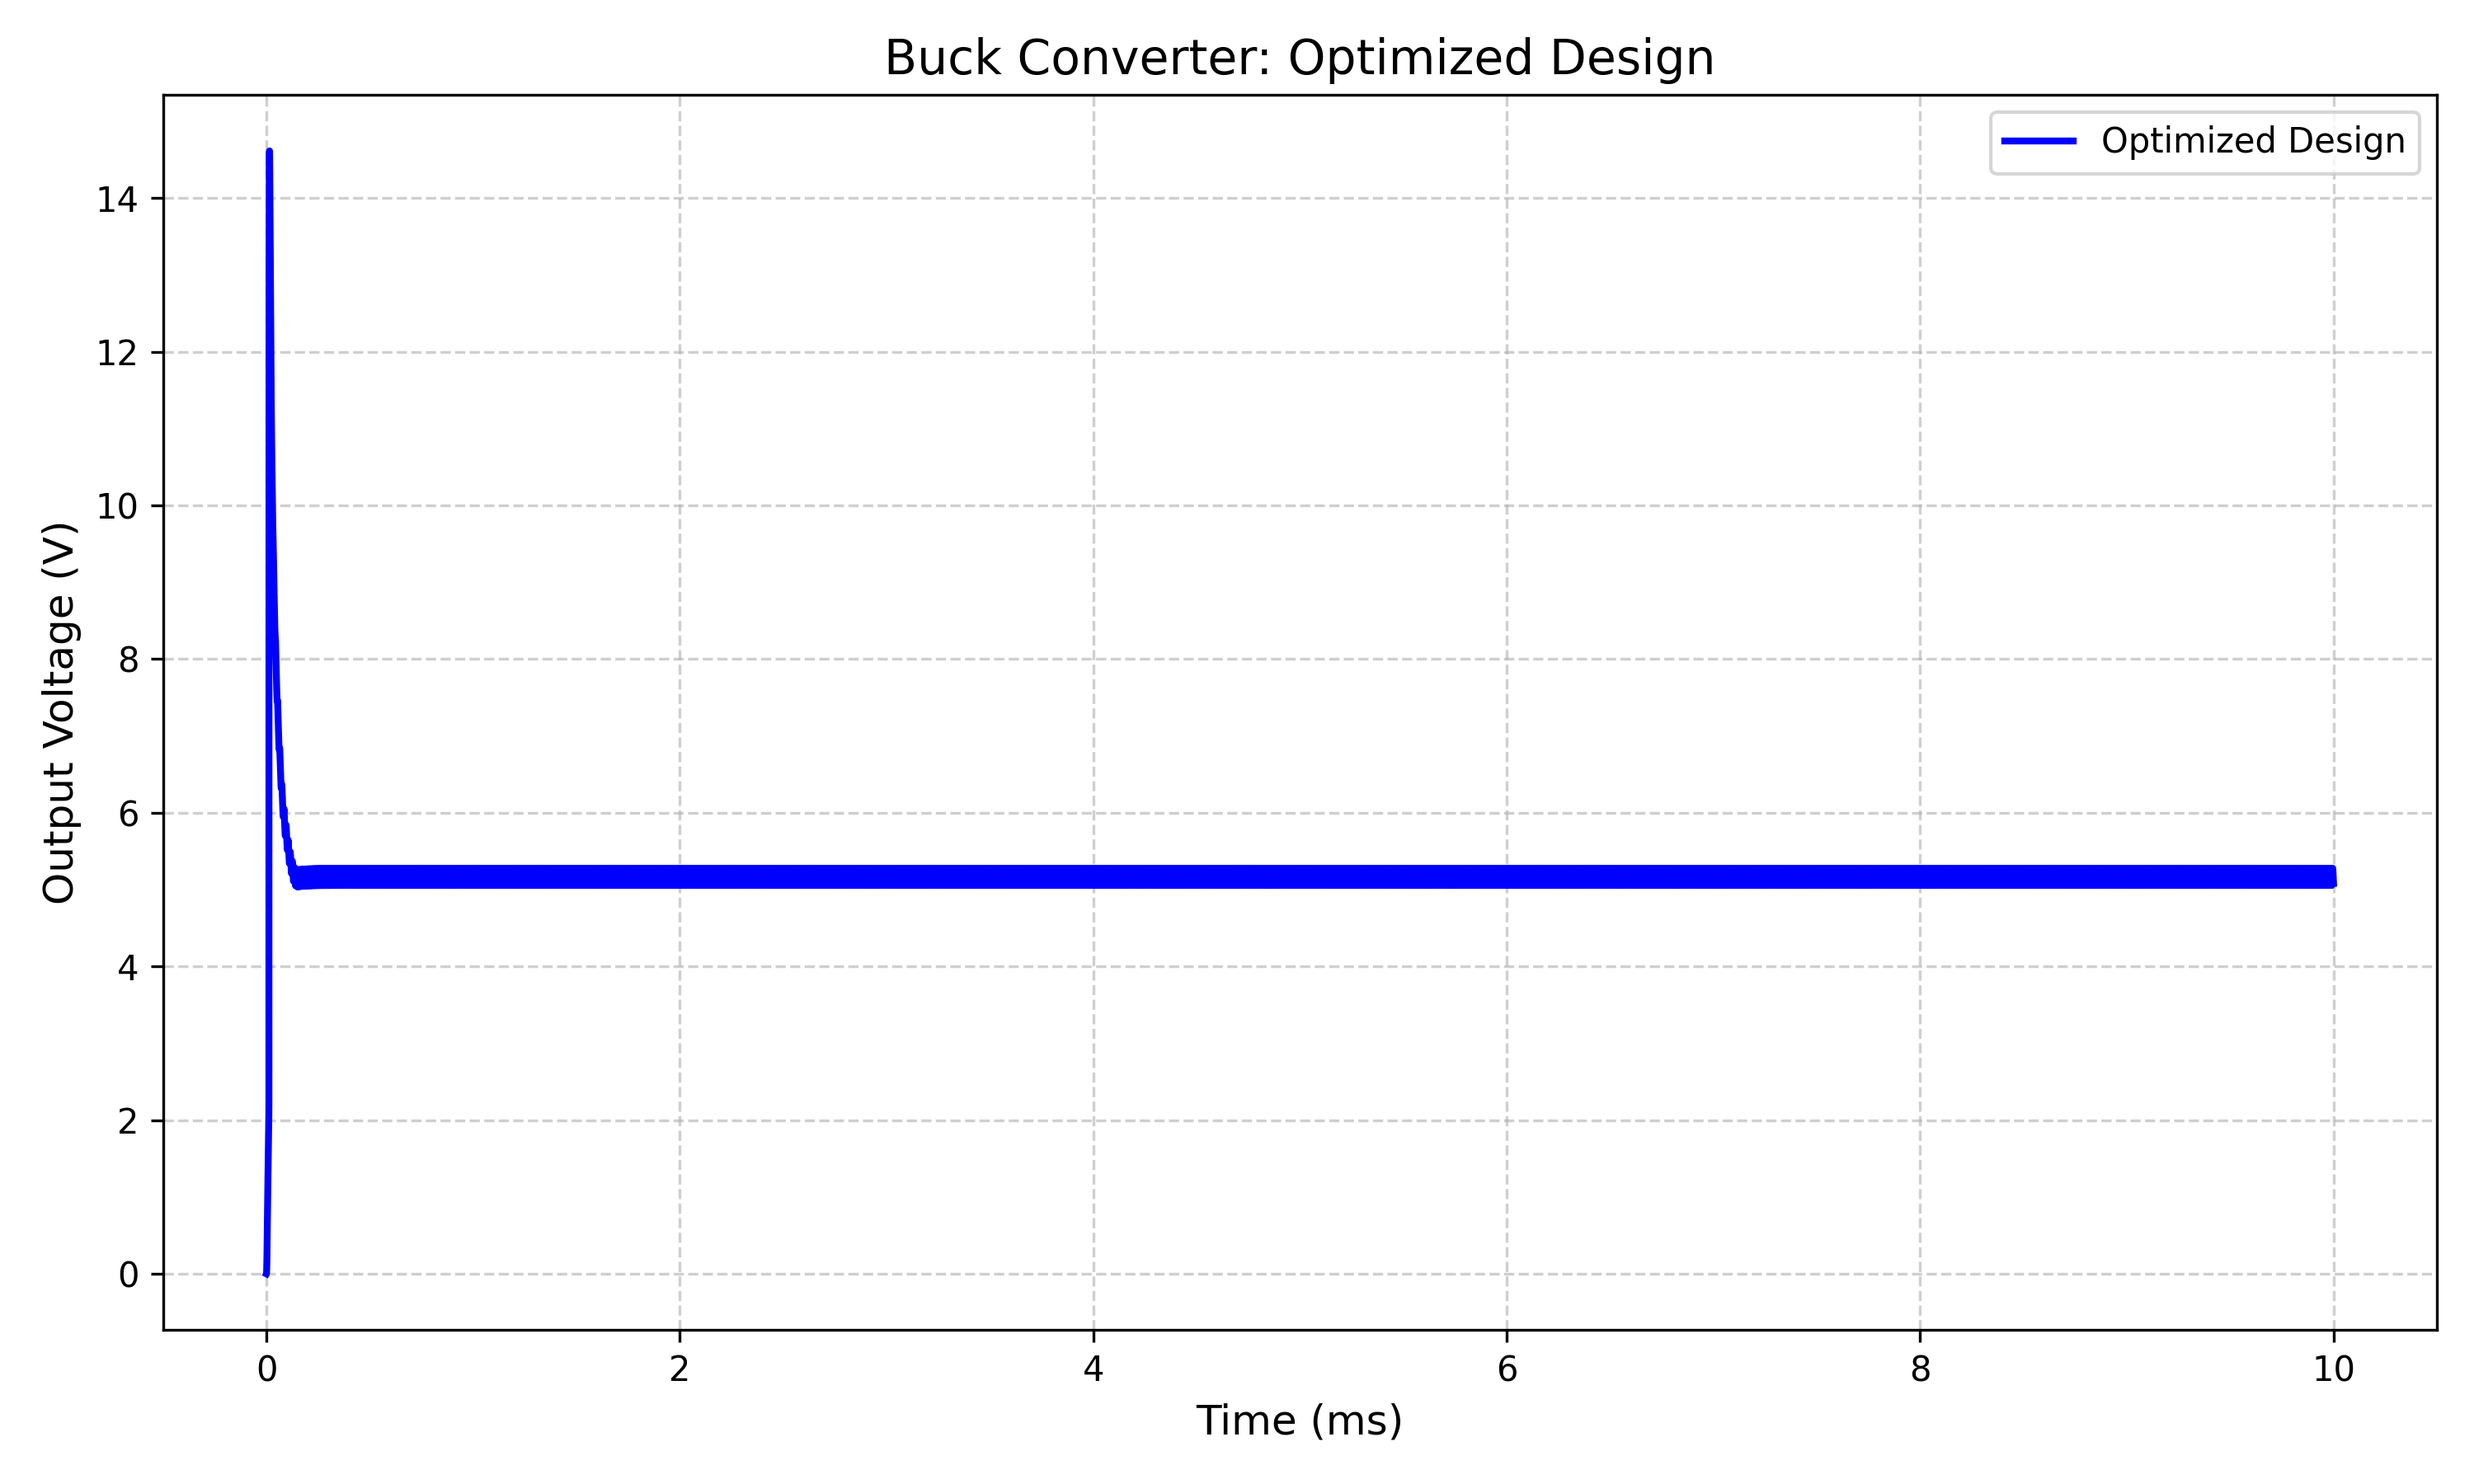
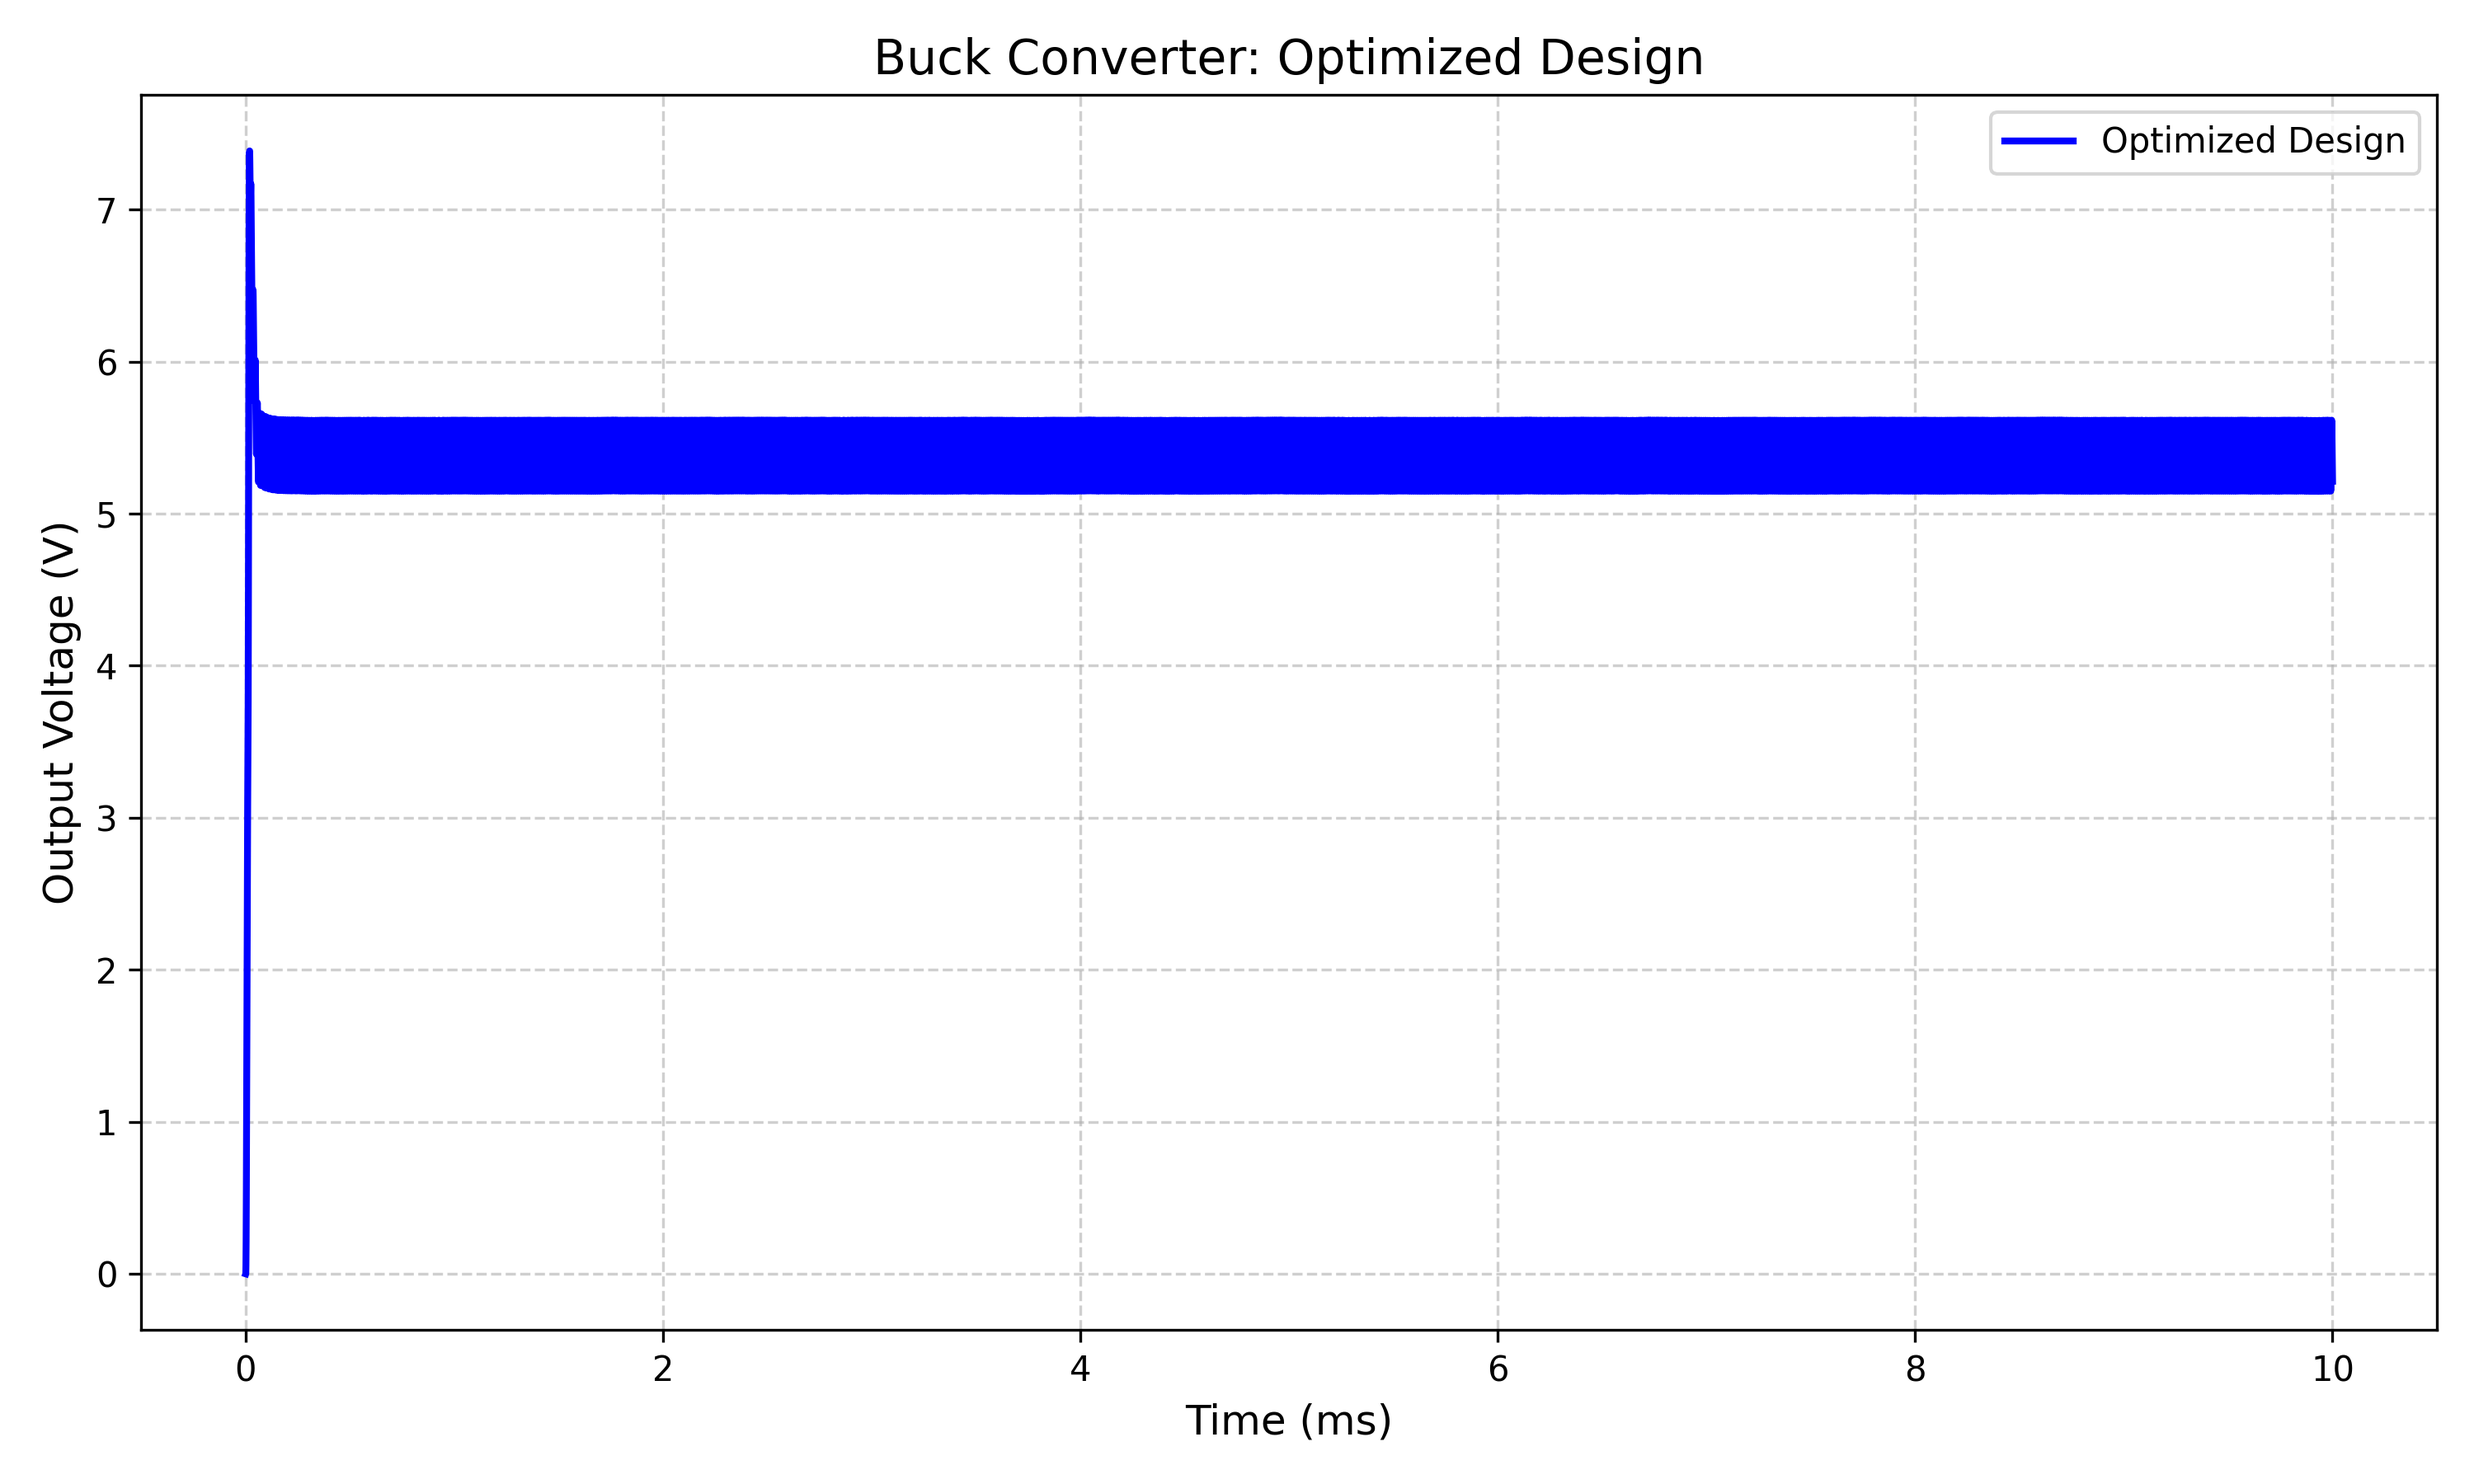
strange simulation

diff --git a/PowerAgent/PowerAgent_V1.5.py b/PowerAgent/PowerAgent_V1.5.py
@@ -489,7 +489,7 @@ def main():
     
     app = build_graph()
     
-    print("Starting PowerAgent V1 (LangGraph)...")
+    print("Starting PowerAgent V1.5 (real buck)...")
     print(f"Logs will be written to {MEMORY_FILE}")
     
     # Run the graph

diff --git a/agent_memory.md b/agent_memory.md
@@ -4,3 +4,47 @@
 
 Initial circuit state set and netlist saved.
 
+**Agent Thought (Iter 0):**
+
+
+**Agent Thought (Iter 1):**
+It seems there was an error analyzing the circuit due to a missing file. Let's proceed with the information we have and start by simulating the circuit to get a baseline.
+
+**Tool Call (simulate_circuit):** Starting simulation...
+
+**Tool Call (simulate_circuit):** Simulation completed.
+
+**Agent Thought (Iter 2):**
+
+
+**Tool Call (calculate_metrics):**
+Simulation Metrics:
+{'v_mean': 5.345578193664551, 'ripple_pp': 0.46906089782714844, 'ripple_percent': 8.774745464324951, 'max_voltage': 5.615123271942139, 'min_voltage': 5.14606237411499}
+
+**Agent Thought (Iter 3):**
+The initial simulation results are as follows:
+
+- Mean Output Voltage (V_mean): 5.35V
+- Output Ripple: 0.47V (8.77%)
+
+These results do not meet the desired specifications. The output voltage is slightly higher than the target, and the ripple is significantly higher than the desired 5%.
+
+Let's start optimizing the circuit. First, we will adjust the duty cycle to bring the output voltage closer to the target of 5V. The current duty cycle is too high, resulting in a higher output voltage. 
+
+The duty cycle (D) can be adjusted using the formula: D_new = D_old * (V_target / V_measured). In this case, D_old is approximately 0.42 (from the initial Vsw = PULSE(0 10 0 1n 1n 4.2u 10u)), V_target is 5V, and V_measured is 5.35V. Let's calculate the new duty cycle and update the circuit.
+The new duty cycle (D_new) can be calculated as follows:
+
+D_new = D_old * (V_target / V_measured)
+       = 0.42 * (5 / 5.35)
+       = 0.393
+
+To implement this duty cycle, we need to adjust the Ton value in the Vsw pulse definition. With a Tperiod of 10u, the new Ton value should be:
+
+Ton_new = D_new * Tperiod
+        = 0.393 * 10u
+        = 3.93u
+
+Let's update the circuit with this new Ton value.
+
+Comparison plot saved to c:\Users\david\Desktop\PhD\progetti\SpiceAgent\PowerAgent\optimization_comparison.png
+
